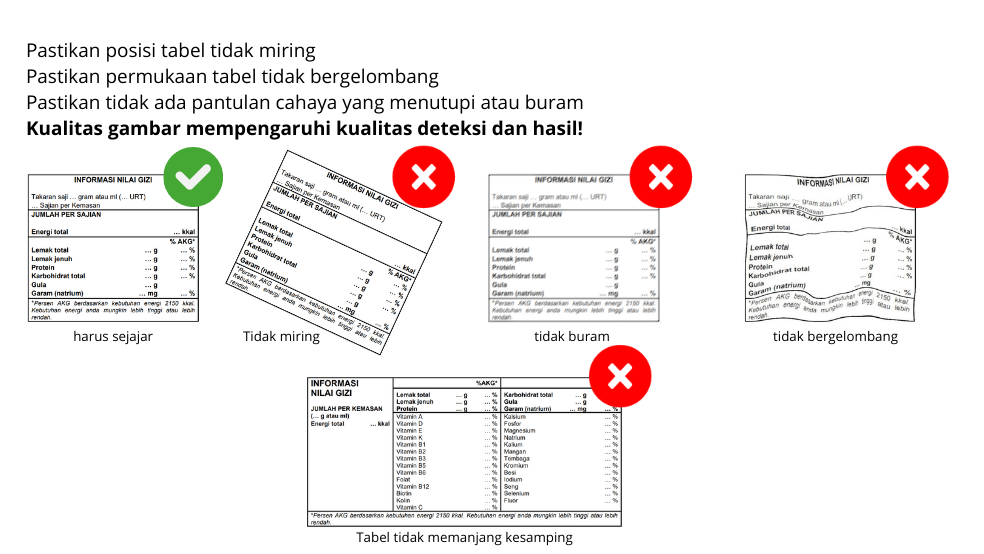
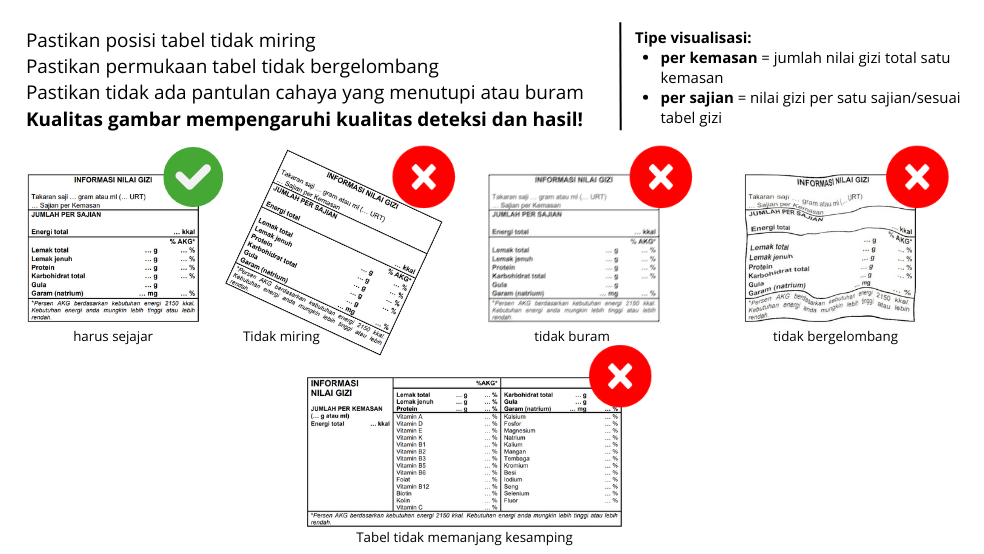
add tipe visualisasi

Changed region(s): [[0.0305, 0.0614, 0.6098, 0.2455], [0.6402, 0.0614, 0.9756, 0.2455]]

diff --git a/src/App.js b/src/App.js
@@ -31,6 +31,7 @@ function App() {
   const [loading, setLoading] = useState(false);
   const [gender, setGender] = useState(""); 
   const [ageRange, setAgeRange] = useState(""); 
+  const [visualType, setVisualType] = useState(""); 
 
   const { getRootProps, getInputProps, isDragActive } = useDropzone({
     accept: { "image/*": ['.jpeg', '.jpg', '.png', '.heic', '.heif'] },
@@ -45,6 +46,7 @@ function App() {
 
   const handleGenderChange = (e) => setGender(e.target.value); 
   const handleAgeRangeChange = (e) => setAgeRange(e.target.value); 
+  const handleVisualTypeChange = (e) => setVisualType(e.target.value); 
 
   const handleSubmit = async (e) => {
     e.preventDefault();
@@ -54,6 +56,7 @@ function App() {
     formData.append("file", selectedFile);
     formData.append("gender", gender); 
     formData.append("age_range", ageRange); 
+    formData.append("tipe_visualisasi", visualType); 
 
     try {
       setLoading(true);
@@ -253,7 +256,7 @@ function App() {
               
 
               {/* Dropdowns */}
-              <div className="flex flex-col sm:flex-row gap-4">
+              <div className="flex flex-col sm:flex-row gap-2">
                 <select
                   className="flex-1 bg-white border border-gray-300 px-4 py-2 rounded-full text-gray-700"
                   value={gender}
@@ -280,6 +283,17 @@ function App() {
                   <option value="50_64_tahun">50–64 tahun</option>
                   <option value="65_80_tahun">65–80 tahun</option>
                   <option value="80_plus_tahun">80+ tahun</option>
+                </select>
+
+                <select
+                  className="flex-1 bg-white border border-gray-300 px-4 py-2 rounded-full text-gray-700"
+                  value={visualType}
+                  onChange={handleVisualTypeChange}
+                  required
+                >
+                  <option value="" disabled>Tipe Visualisasi</option>
+                  <option value="kemasan">per 1 Kemasan</option>
+                  <option value="sajian">per 1 Sajian</option>
                 </select>
               </div>
 
@@ -447,11 +461,24 @@ function App() {
                   <div className="w-full md:w-1/2 flex flex-col items-center text-gray-600 text-sm px-4">
                     <h2 className="font-bold mb-2 text-center">Karbohidrat setara dengan:</h2>
                     <p className="text-center">
-                    {results?.data?.karbohidrat_total ? (
-                      Math.round(42 / results.data.karbohidrat_total) === 1
-                        ? '1 porsi nasi'
-                        : `1/${Math.round(42 / results.data.karbohidrat_total)} porsi nasi`
-                    ) : '-'}
+                    {results?.data?.karbohidrat_total ? (() => {
+                      const jumlahPorsi = results.data.karbohidrat_total / 42;
+                      const integerPart = Math.floor(jumlahPorsi);
+                      const fractionalPart = jumlahPorsi - integerPart;
+                      let hasil = '';
+                      if (fractionalPart < 0.2) {
+                        hasil = `${integerPart}`;
+                      } else if (fractionalPart >= 0.2 && fractionalPart < 0.4) {
+                        hasil = `${integerPart > 0 ? integerPart + ' ' : ''}¼`;
+                      } else if (fractionalPart >= 0.4 && fractionalPart < 0.6) {
+                        hasil = `${integerPart > 0 ? integerPart + ' ' : ''}½`;
+                      } else if (fractionalPart >= 0.6 && fractionalPart < 0.8) {
+                        hasil = `${integerPart > 0 ? integerPart + ' ' : ''}¾`;
+                      } else {
+                        hasil = `${integerPart + 1}`;
+                      }
+                      return hasil ? `${hasil} Porsi` : '-';
+                    })() : '-'}
                     </p>
                     {results?.perbandingan_kalori?.path && (
                       <img
